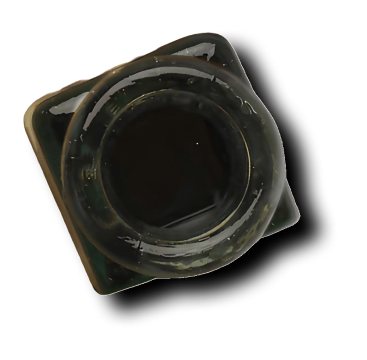
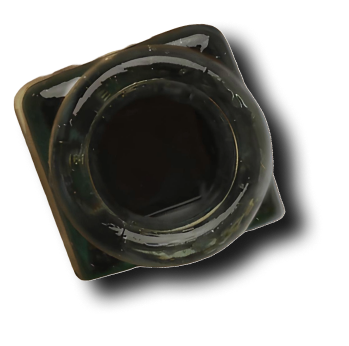
Aggiornamento-seconda-riga

diff --git a/diario.html b/diario.html
@@ -52,7 +52,10 @@
     <h1 class="h1 text-center">Diario</h1>
     <p class="fs-1 text-center">Scopri chi siamo attraverso la nostra avventura</p>  
   </div>
-  <div class="container">
+
+    <!-- CLASSI NECESSARIE PER RENDERE IL NASTRO ATTACCATO ALL'IMMAGINE -->
+
+  <div class="container mb-5 pb-5">
     <div class="row">
       <div class="col-10 offset-1">
         <div class="position-relative" id="hero-img">
@@ -63,10 +66,74 @@
       </div>
     </div>
   </div>
+
+      <!-- PRIMA ROW    -->
+
+  <div class="container mt-5 pt-5">
+    <div class="row">
+
+          <!-- Testi -->
+
+      <div class="col-12 col-lg-5 d-flex">
+        <div class="container">
+          <h2 class="h2 pb-5">Giorno 1</h2>
+          <p class="fs-2">
+            Lorem ipsum dolor sit amet, consectetur adipiscing elit. Maecenas dui turpis, accumsan non tincidunt sit amet, rutrum eu erat. Cras ac tellus mattis, condimentum ligula et, semper risus. Pellentesque auctor vehicula neque vel consectetur. Quisque aliquam scelerisque pretium. Etiam ut gravida lorem.
+            Vivamus a quam lacinia, congue magna nec, vehicula nisl. Cras faucibus consequat orci in consequat.<br> Aenean accumsan nunc a faucibus lobortis. Sed fringilla et diam eu placerat.
+            Nullam ultricies feugiat nisl, at auctor ex lacinia vel. Fusce varius feugiat metus, eget bibendum arcu elementum a.
+          </p>
+        </div>
+      </div>
+
+        <!-- Immagini -->
+
+      <div class="col-10 offset-1 col-lg-7 offset-md-0 position-relative py-5">
+        <img src="/img/Diario/bosco-fate.jpg" class="mx-auto d-block w-100 opacity-75" alt="il disegno di un bosco con delle fatine con sopra poggiati un calamaio ed una penna">
+        <img src="/img/Diario/calamaio.png" alt="" id="ink" class="img-fluid position-absolute top-0 start-50 translate-middle ink"> 
+        <!-- translate-middle perfeziona il centramento dell'immagine ma crea un conflitto con lo script per il tilt, da decidere a cosa dare la precedenza -->
+        <img src="/img/Diario/penna.png" alt="" id="quill" class="img-fluid position-absolute top-0 start-50 quill">
+      </div>
+    </div>
+  </div>
+
+  <!-- Seconda ROW    -->
+
+  <div class="container mt-5 pt-5">
+    <div class="row">
+              
+        <!-- Testi -->
+
+      <div class="col-12 col-lg-5 d-flex order-first order-lg-last">
+        <div class="container">
+          <h2 class="h2 pb-5">Giorno 1</h2>
+          <p class="fs-2">
+            Lorem ipsum dolor sit amet, consectetur adipiscing elit. Maecenas dui turpis, accumsan non tincidunt sit amet, rutrum eu erat. Cras ac tellus mattis, condimentum ligula et, semper risus. Pellentesque auctor vehicula neque vel consectetur. Quisque aliquam scelerisque pretium. Etiam ut gravida lorem.
+            Vivamus a quam lacinia, congue magna nec, vehicula nisl. Cras faucibus consequat orci in consequat.
+          </p>
+          <p class="fs-2">
+            Lorem ipsum dolor sit amet, consectetur adipiscing elit. Maecenas dui turpis, accumsan non tincidunt sit amet, rutrum eu erat. Cras ac tellus mattis, condimentum ligula et, semper risus. Pellentesque auctor vehicula neque vel consectetur. Quisque aliquam scelerisque pretium. Etiam ut gravida lorem.
+            Vivamus a quam lacinia, congue magna nec, vehicula nisl. Cras faucibus consequat orci in consequat. Aenean accumsan nunc a faucibus lobortis. Sed fringilla et diam eu placerat.
+            Nullam ultricies feugiat nisl, at auctor ex lacinia vel. Fusce varius feugiat metus, eget bibendum arcu elementum a.
+          </p>
+        </div>
+      </div>
+      
+        <!-- Immagini -->
+
+        <div class="col-10 offset-1 col-lg-7 offset-md-0 position-relative py-5 order-last order-lg-first">
+          <img src="/img/Diario/costa-sirene-2.png" class="d-block opacity-50 h-100" style="max-height: 768px;" alt="il disegno di una costa con due sirene sopra degli scogli mentre guardano l'orizzonte">
+          <img src="/img/Diario/costa-sirene-zoom.png" alt="" id="ink" class="position-absolute top-50 end-0 translate-middle-y w-50"> 
+          <!-- translate-middle perfeziona il centramento dell'immagine ma crea un conflitto con lo script per il tilt, da decidere a cosa dare la precedenza -->
+          <!-- <img src="/img/Diario/penna.png" alt="" id="quill" class="img-fluid position-absolute top-0 start-50 quill"> -->
+        </div>
+  
+    </div>
+  </div>
+
       
       <!-- -!- BUSTA -->
 
-      <!-- <div ><img class="envelope" src="/img/Diario/Busta.png"></div> -->
+      <div ><img class="envelope" src="/img/Diario/Busta.png"></div>
 
 
 

diff --git a/general-style.css b/general-style.css
@@ -20,12 +20,29 @@
     letter-spacing: 1.44px;
 }
 
+.h2{
+    font-family: "Amalfi Coast";
+    font-size: 48px;
+    font-style: normal;
+    font-weight: 400;
+    line-height: 150%;
+    letter-spacing: 0.48px;
+}
+
 .fs-1{
     font-family: Libre Baskerville;
     font-size: 22px !important; 
     font-style: normal;
     font-weight: 400;
     line-height: 160%
+}
+
+.fs-2{
+    font-family: "Libre Baskerville";
+    font-size: calc(1rem + 0.3vw) !important;
+    font-style: normal;
+    font-weight: 400;
+    line-height: 150%;
 }
 
 body{
@@ -138,6 +155,10 @@ input[type=text]:focus, input[type=email]:focus{
         letter-spacing: 0.96px;
     }
 
+    .h2{
+        font-size: calc();
+    }
+
     .fs-1{
         font-size: calc(1rem + 0.5vw) !important;
     }
@@ -149,7 +170,16 @@ input[type=text]:focus, input[type=email]:focus{
         letter-spacing: 0.96px;
     }
 
+    .h2{
+        font-size: 32px !important;
+        letter-spacing: 0.32px;
+    }
+
     .fs-1{
         font-size: 18px !important;
+    }
+
+    .fs-2{
+        font-size: 15px;
     }
 }

diff --git a/script.js b/script.js
@@ -9,4 +9,15 @@ let prevScrollpos = window.scrollY; // GESTIONE NAVBAR ALLO SCROLL
         prevScrollpos = currentScrollPos;
     };
 
-VanillaTilt.init(document.querySelector(".envelope"),{}); //CHIAMANDO VANILLA TILT SI DA L'EFFETTO ALL'ELEMENTO CON LA CLASSE SELEZIONATA
+VanillaTilt.init(document.querySelector(".ink"),{
+    max: 8,
+	speed: 300
+});
+VanillaTilt.init(document.querySelector(".quill"),{
+    max: 2,
+	speed: 1000
+});
+VanillaTilt.init(document.querySelector(".envelope"),{
+    max: 15,
+    speed: 1500
+}); //CHIAMANDO VANILLA TILT SI DA L'EFFETTO ALL'ELEMENTO CON LA CLASSE SELEZIONATA

diff --git a/diario.css b/diario.css
@@ -13,12 +13,10 @@
 
 #nas-1{
     transform: translate(-50%,-50%) rotate(105deg) !important;
-    /* width: 100%; */
 }
 
 #nas-2{
     transform: translate(-50%,-50%) rotate(-78deg) !important;
-    /* width: 100%; */
 }
 
 .envelope{
